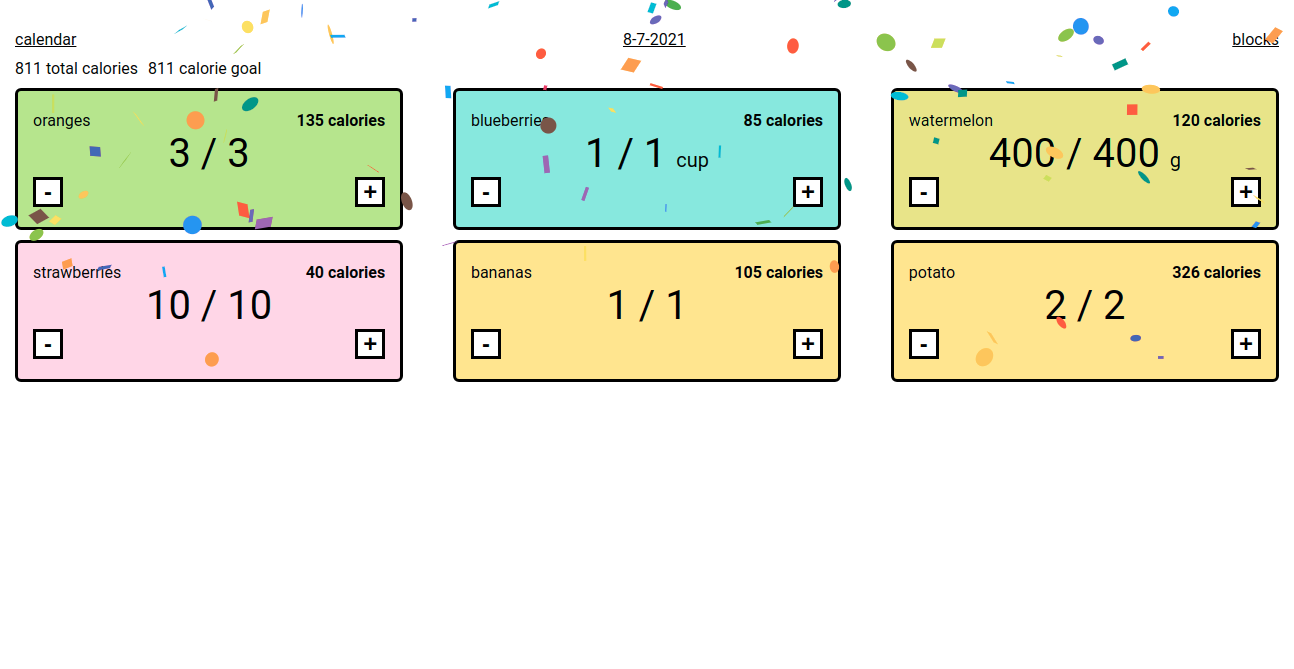
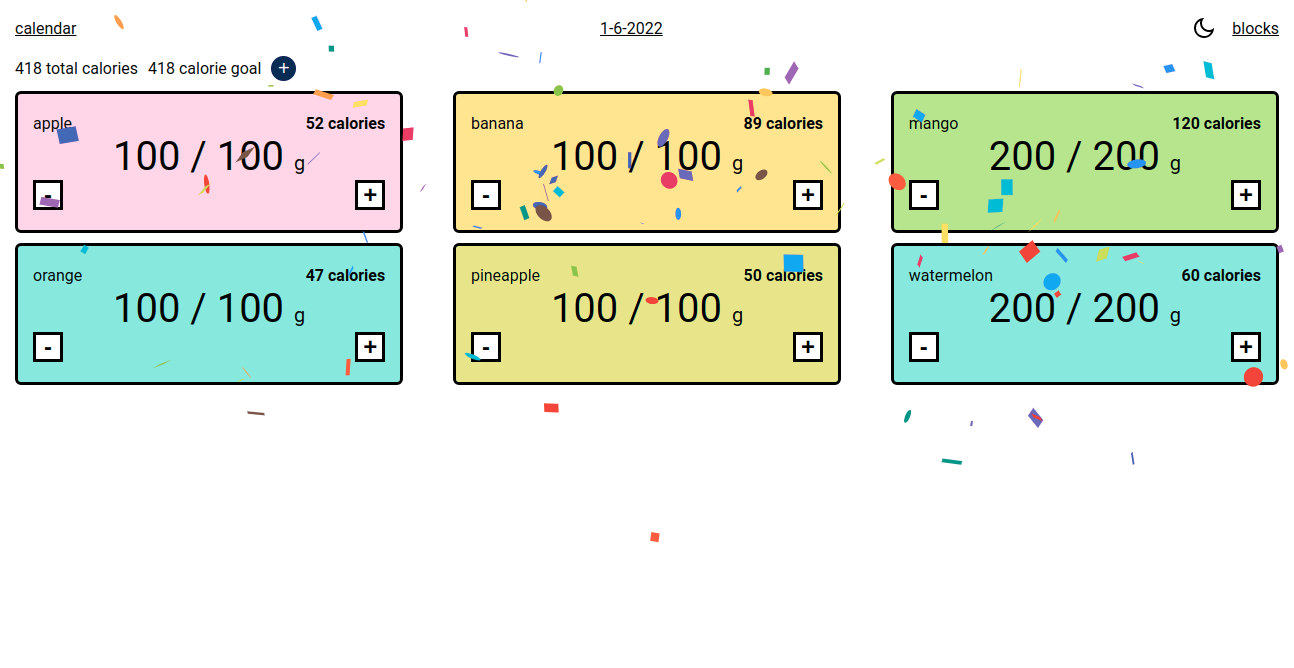
modify wording and add food dictionary section

diff --git a/_projects/calorie-tracker.md b/_projects/calorie-tracker.md
@@ -6,7 +6,7 @@ meta: A Progressive Web App to keep track of calories in a fun and interactive w
 description: Front End Technologies
 permalink: /calorie-tracker
 published: true
-order: 3
+order: 2
 emoji: 😀
 ---
 
@@ -64,15 +64,27 @@ The food blocks were designed for ease of use and to look fun by giving it a car
 </div>
 
 
-To ease the flow of creating a food block a button is added to the home screen thats add a new empty food block and opens a modal with that food block to fill in the data.
+To ease the flow of creating a food block a button is added to the home screen thats add a new empty food block and opens a modal to fill in the data.
 
 Also when clicking on a food block a modal opens with a form to edit the food block data.
 
 ![calorie tracker edit food block modal]({{ site.baseurl }}/images/calorie-tracker-edit-food-block-modal.png "calorie tracker edit food block modal")
 
+### duplicate and merge previous day
+
 One of the previous 10 days can be duplicated and merged with the current day.
 
 ![calorie tracker duplicate previous day]({{ site.baseurl }}/images/calorie-tracker-duplicate-previous-day.png "calorie tracker duplicate previous day")
+
+
+### food dictionary
+
+I noticed there was a pain point where I need to find out how many calories a certain food has and calculate how many calories the food I am eating has.
+
+To help with this issue I created the food dictionary page which allows you to create a food block and calculate the calories by inputting the amount.
+
+
+![food dictionary]({{ site.baseurl }}/images/calorie-tracker-food-dictionary.png "food dictionary")
 
 ### snackbars
 
@@ -110,4 +122,4 @@ You can add it to your home screen to easily revisit it again.
 
 ### offline functionality
 
-All pages and functionality work offline. localStorage is used as a database to store food blocks. 
+All pages and functionality work offline.
